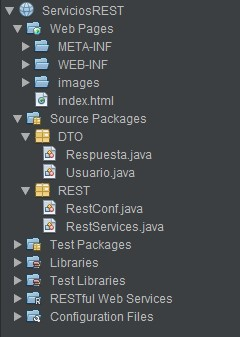
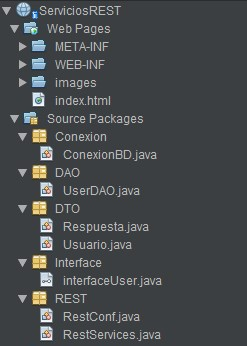
Se realizan ajustes para culminar con los ejemplos

Changed region(s): [[0.0, 0.0, 0.7292, 1.0]]

diff --git a/src/java/Conexion/ConexionBD.java b/src/java/Conexion/ConexionBD.java
@@ -7,15 +7,15 @@ import java.sql.SQLException;
 public class ConexionBD {
 
     public static Connection connection;
-    private static String user = "aecsariesgo";
-    private static String password = "A3cs4r13sg0";
+    private static String user = "userDb";
+    private static String password = "contraseñaBD";
 
     public Connection conectar() {
         try {
             Class.forName("org.postgresql.Driver");
-            connection = DriverManager.getConnection("jdbc:postgresql://172.16.0.211:5432/estrategia", user, password);
+            connection = DriverManager.getConnection("jdbc:postgresql://[IP]:[Port]/[name DB]", user, password);
         } catch (ClassNotFoundException | SQLException e) {
-            System.out.println("Error de conexion PostgreSQL 211 estrategia " + e);
+            System.out.println("Error de conexion PostgreSQL" + e);
         }
         return connection;
     }
@@ -24,7 +24,7 @@ public class ConexionBD {
         try {
             connection.close();
         } catch (SQLException e) {
-            System.out.println("Error al desconectar PoostgreSQL " + e);
+            System.out.println("Error al desconectar PostgreSQL " + e);
         }
     }
 }

diff --git a/src/java/DAO/UserDAO.java b/src/java/DAO/UserDAO.java
@@ -17,7 +17,6 @@ public class UserDAO implements interfaceUser {
     public Respuesta getUsers() {
         Respuesta rta = new Respuesta();
         ArrayList<Object> objetoRespuesta = new ArrayList<>();
-
         String consultaSql = "SELECT * FROM usuario;";
         try {
             PreparedStatement ps = cn.conectar().prepareStatement(consultaSql);
@@ -36,8 +35,6 @@ public class UserDAO implements interfaceUser {
         } finally {
             cn.desconectarse();
         }
-
         return rta;
     }
-
 }

diff --git a/src/java/Interface/interfaceUser.java b/src/java/Interface/interfaceUser.java
@@ -1,16 +1,7 @@
-/*
- * To change this license header, choose License Headers in Project Properties.
- * To change this template file, choose Tools | Templates
- * and open the template in the editor.
- */
 package Interface;
 
 import DTO.Respuesta;
 
-/**
- *
- * @author JUAN
- */
 public interface interfaceUser {
 
     public abstract Respuesta getUsers();
